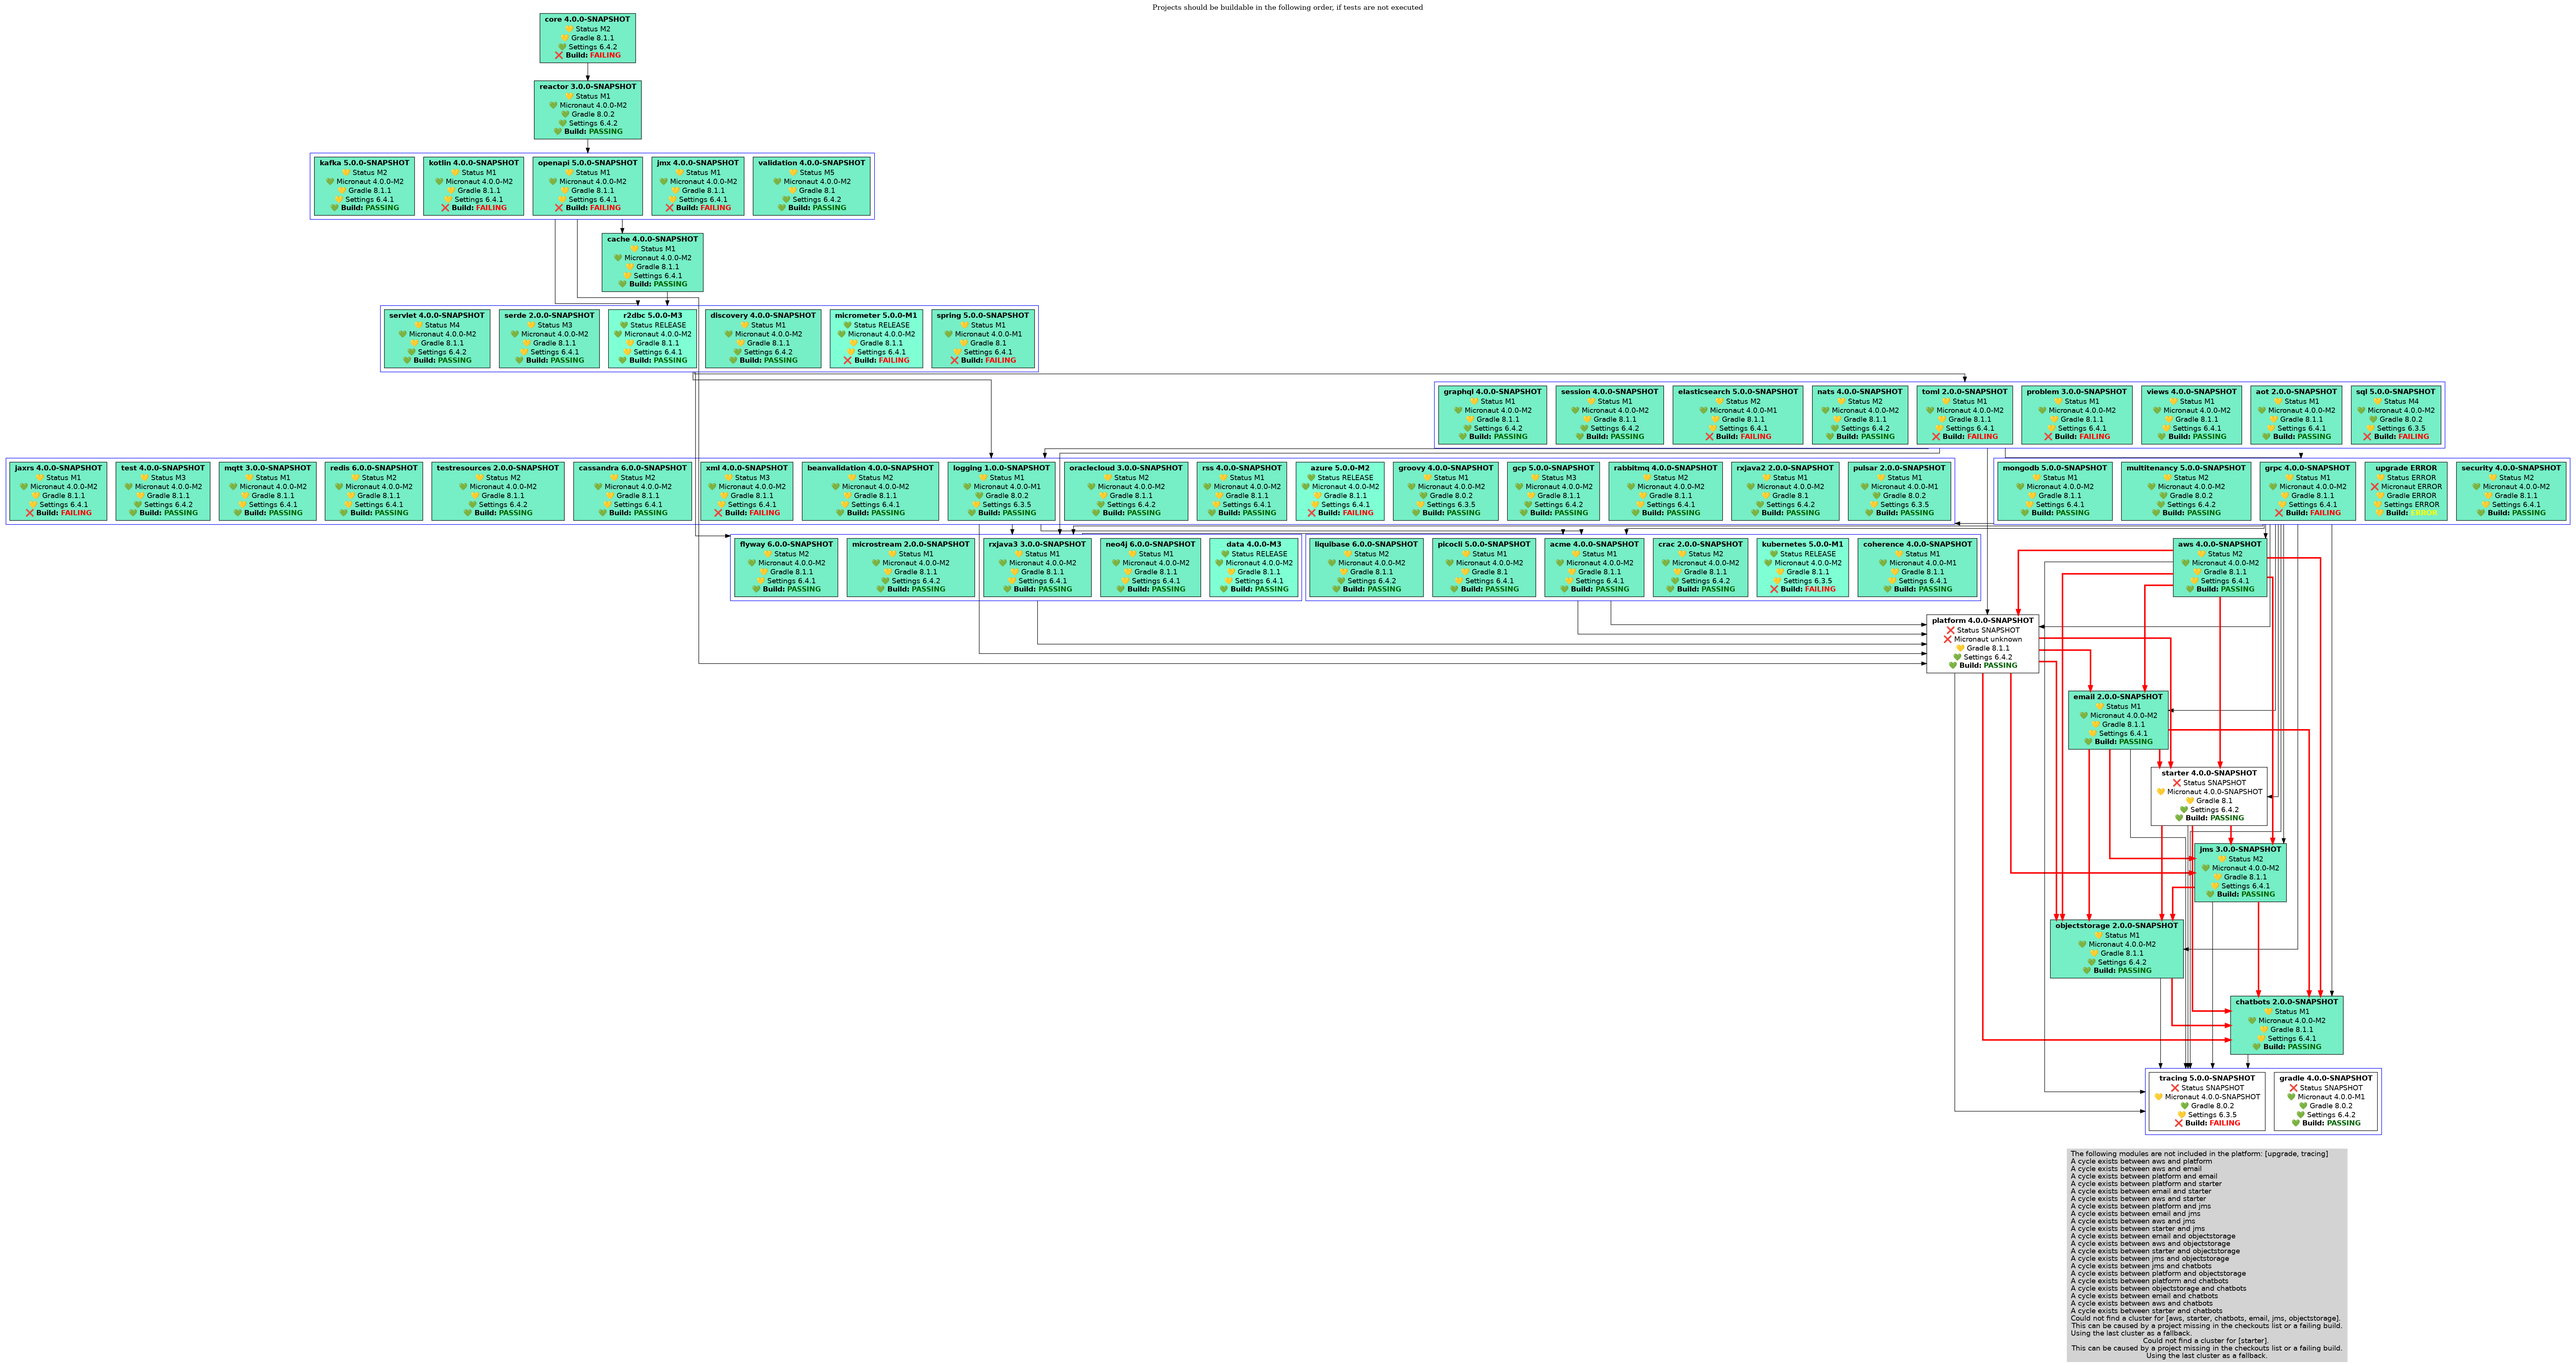
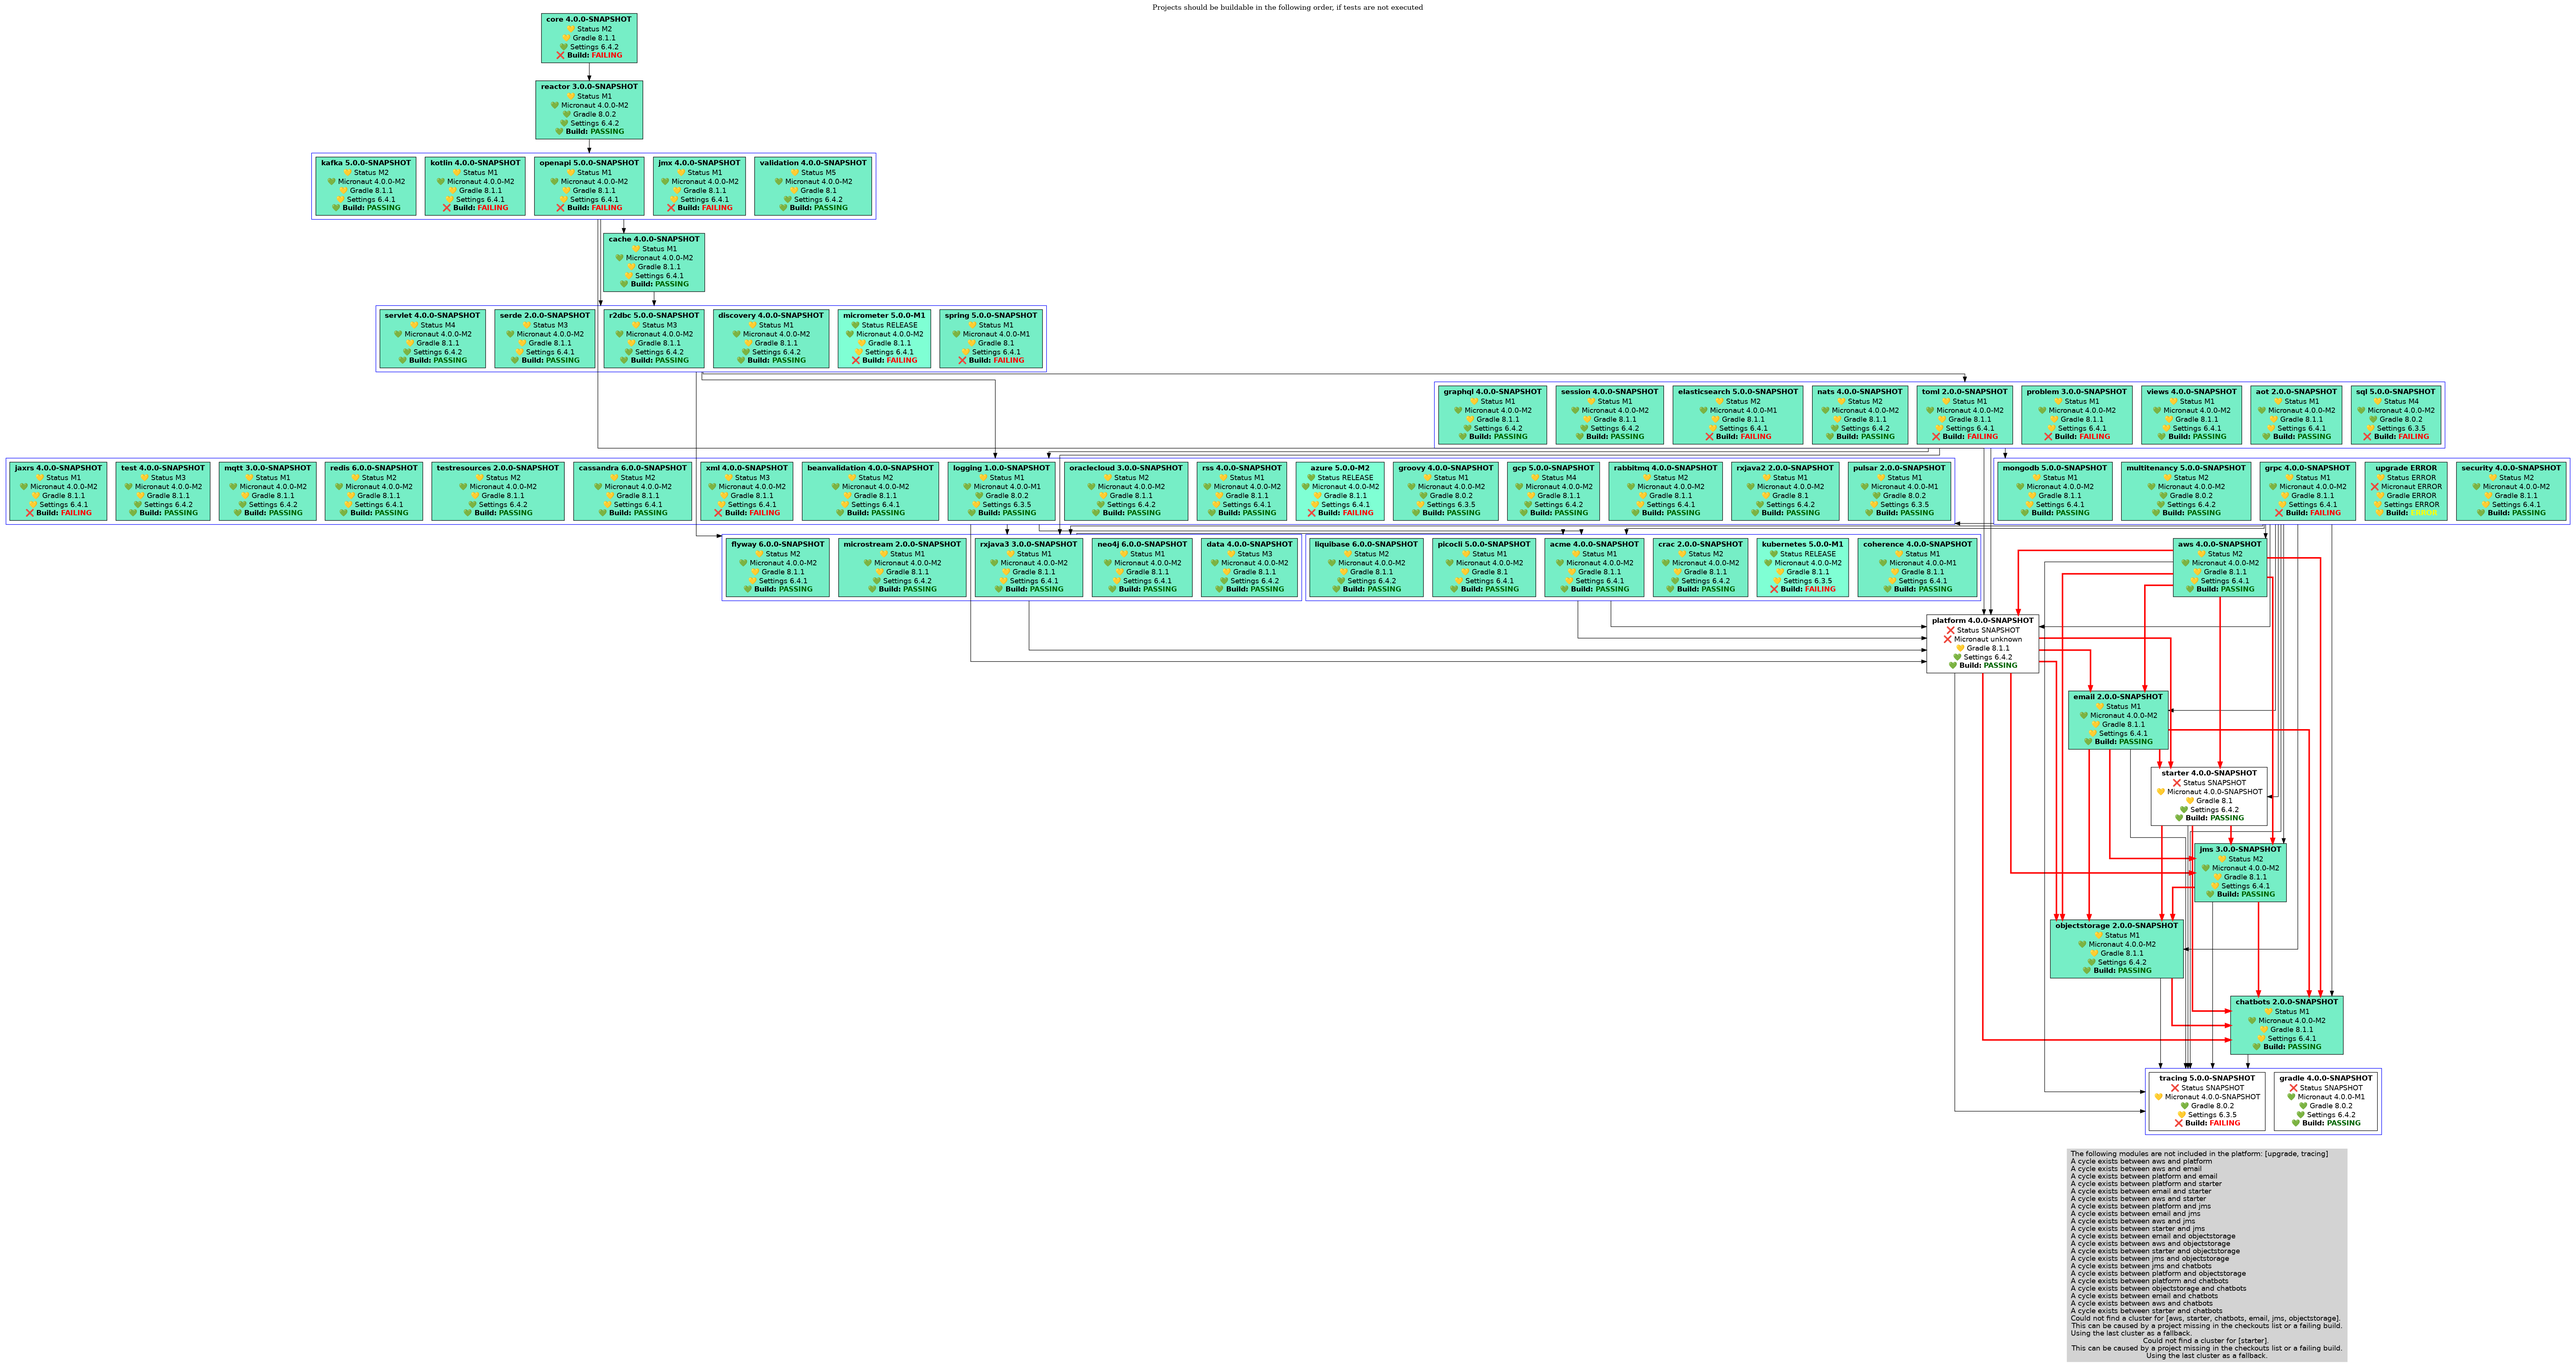
deploy: b464e8ff599e8dcc9e4e8443b7c0bbcfb0db7a98

Changed region(s): [[0.1248, 0.0, 0.4057, 0.2812], [0.2809, 0.375, 0.4993, 0.4375]]

diff --git a/index.html b/index.html
@@ -80,7 +80,7 @@
 <body>
 <div class="header">
     <img src="https://micronaut.io/wp-content/uploads/2020/11/MIcronautLogo_Horizontal.svg">
-    <div class="right">Generated at Apr 28, 2023, 12:18:29 PM</div>
+    <div class="right">Generated at Apr 28, 2023, 6:22:07 PM</div>
 </div>
 <div class="row">
     <nav>
@@ -175,11 +175,11 @@
 <TR><TD>&#128154; <B>Build: <FONT COLOR="darkgreen">PASSING</FONT></B></TD></TR>
 </TABLE></li>
         <li class="item" onclick="showImage(this, 'project-graph-data.png')"><TABLE BORDER="0" CELLSPACING="1" CELLPADDING="1" STYLE="rounded">
-<TR><TD><B>data 4.0.0-M3</B></TD></TR>
-<TR><TD>&#128154; Status RELEASE</TD></TR>
+<TR><TD><B>data 4.0.0-SNAPSHOT</B></TD></TR>
+<TR><TD>&#128155; Status M3</TD></TR>
 <TR><TD>&#128154; Micronaut 4.0.0-M2</TD></TR>
 <TR><TD>&#128155; Gradle 8.1.1</TD></TR>
-<TR><TD>&#128155; Settings 6.4.1</TD></TR>
+<TR><TD>&#128154; Settings 6.4.2</TD></TR>
 <TR><TD>&#128154; <B>Build: <FONT COLOR="darkgreen">PASSING</FONT></B></TD></TR>
 </TABLE></li>
         <li class="item" onclick="showImage(this, 'project-graph-discovery.png')"><TABLE BORDER="0" CELLSPACING="1" CELLPADDING="1" STYLE="rounded">
@@ -216,7 +216,7 @@
 </TABLE></li>
         <li class="item" onclick="showImage(this, 'project-graph-gcp.png')"><TABLE BORDER="0" CELLSPACING="1" CELLPADDING="1" STYLE="rounded">
 <TR><TD><B>gcp 5.0.0-SNAPSHOT</B></TD></TR>
-<TR><TD>&#128155; Status M3</TD></TR>
+<TR><TD>&#128155; Status M4</TD></TR>
 <TR><TD>&#128154; Micronaut 4.0.0-M2</TD></TR>
 <TR><TD>&#128155; Gradle 8.1.1</TD></TR>
 <TR><TD>&#128154; Settings 6.4.2</TD></TR>
@@ -347,7 +347,7 @@
 <TR><TD>&#128155; Status M1</TD></TR>
 <TR><TD>&#128154; Micronaut 4.0.0-M2</TD></TR>
 <TR><TD>&#128155; Gradle 8.1.1</TD></TR>
-<TR><TD>&#128155; Settings 6.4.1</TD></TR>
+<TR><TD>&#128154; Settings 6.4.2</TD></TR>
 <TR><TD>&#128154; <B>Build: <FONT COLOR="darkgreen">PASSING</FONT></B></TD></TR>
 </TABLE></li>
         <li class="item" onclick="showImage(this, 'project-graph-multitenancy.png')"><TABLE BORDER="0" CELLSPACING="1" CELLPADDING="1" STYLE="rounded">
@@ -431,11 +431,11 @@
 <TR><TD>&#128154; <B>Build: <FONT COLOR="darkgreen">PASSING</FONT></B></TD></TR>
 </TABLE></li>
         <li class="item" onclick="showImage(this, 'project-graph-r2dbc.png')"><TABLE BORDER="0" CELLSPACING="1" CELLPADDING="1" STYLE="rounded">
-<TR><TD><B>r2dbc 5.0.0-M3</B></TD></TR>
-<TR><TD>&#128154; Status RELEASE</TD></TR>
+<TR><TD><B>r2dbc 5.0.0-SNAPSHOT</B></TD></TR>
+<TR><TD>&#128155; Status M3</TD></TR>
 <TR><TD>&#128154; Micronaut 4.0.0-M2</TD></TR>
 <TR><TD>&#128155; Gradle 8.1.1</TD></TR>
-<TR><TD>&#128155; Settings 6.4.1</TD></TR>
+<TR><TD>&#128154; Settings 6.4.2</TD></TR>
 <TR><TD>&#128154; <B>Build: <FONT COLOR="darkgreen">PASSING</FONT></B></TD></TR>
 </TABLE></li>
         <li class="item" onclick="showImage(this, 'project-graph-rabbitmq.png')"><TABLE BORDER="0" CELLSPACING="1" CELLPADDING="1" STYLE="rounded">
